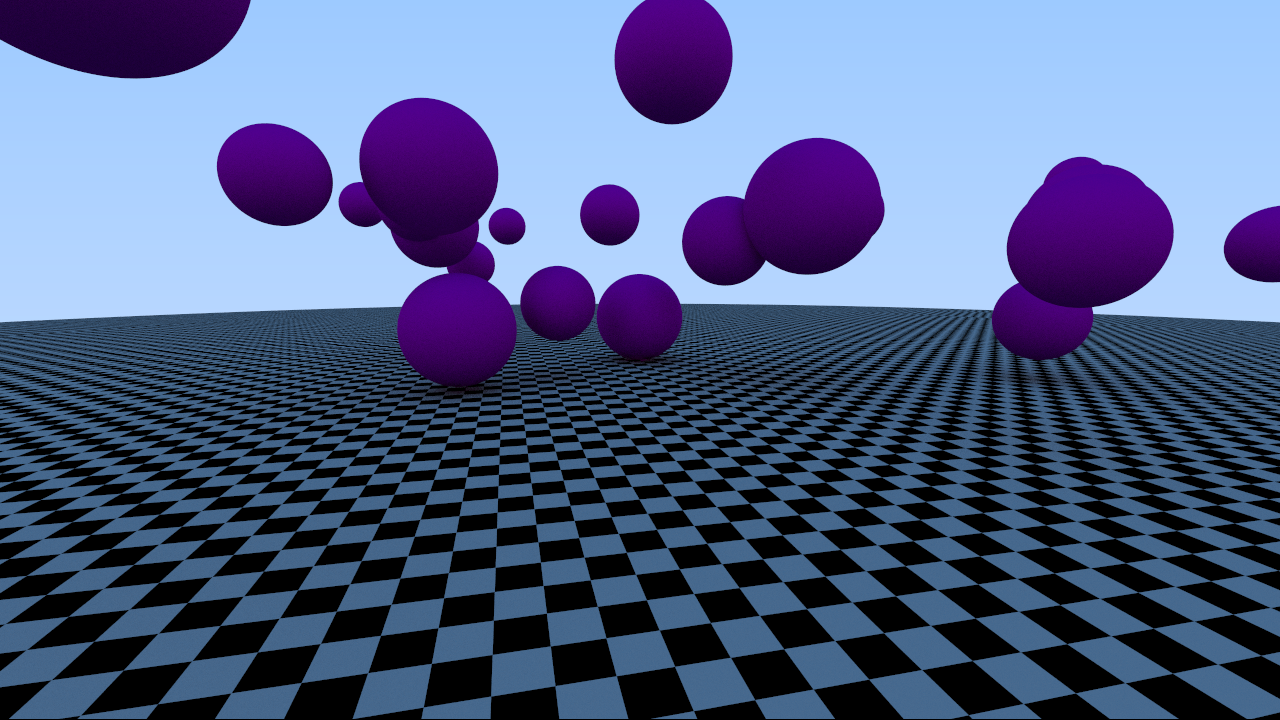
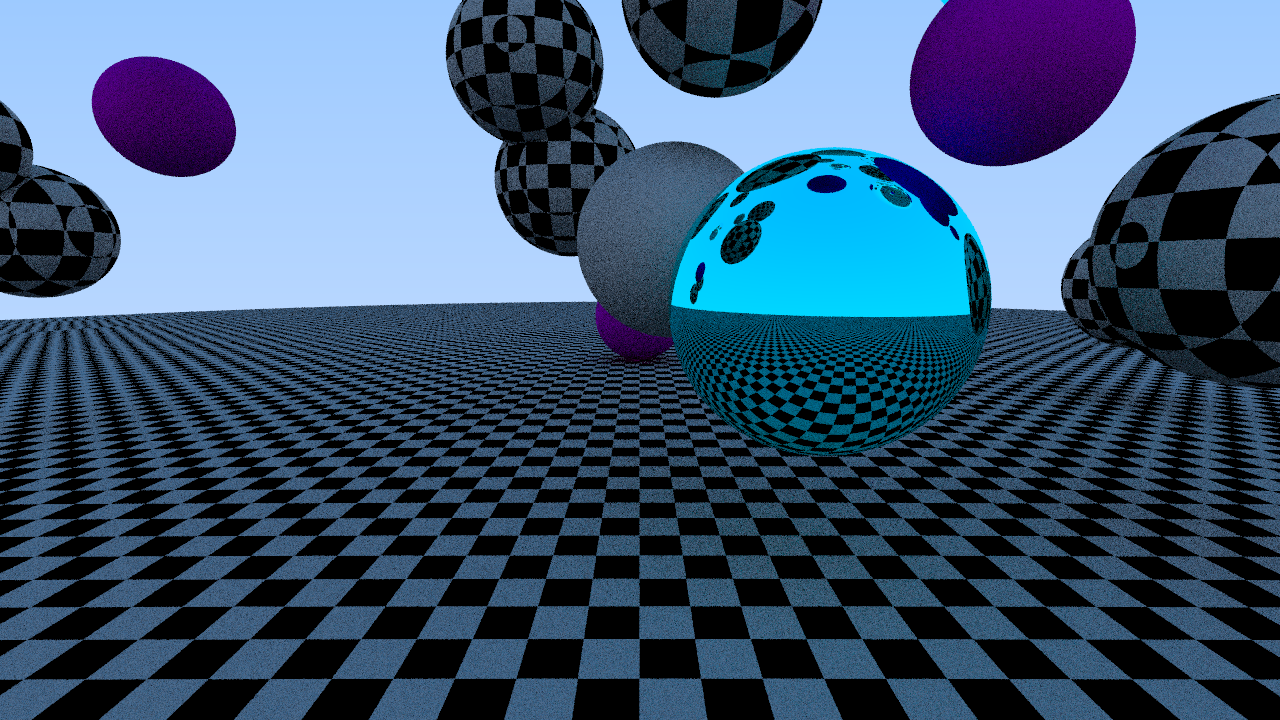
worky

diff --git a/src/main.rs b/src/main.rs
@@ -7,6 +7,9 @@ pub mod raytracer;
 pub mod scene;
 pub mod types;
 
+use std::sync::mpsc;
+use std::sync::mpsc::{Receiver, Sender};
+
 use crossbeam::thread;
 use hittable::*;
 use intersection::*;
@@ -21,7 +24,8 @@ use glm;
 use glm::builtin::*;
 
 use image; // 0.23.14
-use image::{Rgb, RgbImage};
+use image::imageops::*;
+use image::{GenericImage, GenericImageView, Rgb, RgbImage};
 
 fn degrees_to_radians(degrees: f32) -> f32 {
     degrees * std::f32::consts::PI / 180.
@@ -87,6 +91,28 @@ impl Material for DiffuseMaterial {
     }
 }
 
+pub struct MirrorMaterial {
+    albedo: Box<dyn Texture + Send + Sync>,
+}
+
+impl Material for MirrorMaterial {
+    fn brdf(&self, surface: &Intersection) -> Option<Bounce> {
+        Some(Bounce {
+            color: self.albedo.sample(&surface.uv, &surface.position),
+            out_dir: reflect(surface.in_direction, surface.normal),
+        })
+    }
+    fn pdf(&self, _: &Intersection) -> f32 {
+        1.
+    }
+}
+
+impl MirrorMaterial {
+    fn new(albedo: Box<dyn Texture + Send + Sync>) -> Self {
+        Self { albedo }
+    }
+}
+
 pub struct CameraSettings {
     origin: Position,
     left_corner: Position,
@@ -144,36 +170,63 @@ impl<Context> CPUTracer<Context> {
 
 impl<Context: Send + Sync> RayTracer<Context> for CPUTracer<Context> {
     fn trace(&self, context: &Context, width: u32, height: u32, scene: &Scene) {
-        for row in (0..height as i32 - 1).rev().step_by(8) {
-            if row < 0 {
+        let thread_count: u32 = 64;
+        let mut image = RgbImage::new(width, height);
+        let (tx, rx): (
+            Sender<Vec<(u32, u32, Color)>>,
+            Receiver<Vec<(u32, u32, Color)>>,
+        ) = mpsc::channel();
+
+        for row in (0..height).step_by(thread_count as usize) {
+            if row >= height {
                 break;
             }
+
+            let thread_tx = tx.clone();
+
+            //let slice = acc[(row * width) as usize..(row * width + width) as usize];
             let scope = thread::scope(move |s| {
-                for t in (0..8 as i32).rev() {
-                    if row - t < 0 {
+                for t in 0..thread_count {
+                    if row + t >= height {
                         break;
                     }
+                    let thread_tx = thread_tx.clone();
+
                     s.spawn(move |_| {
+                        let mut row_vector = Vec::with_capacity(width as usize);
                         for x in 0..width {
-                            let c = self.ray_generation_shader.generate(
+                            let color = self.ray_generation_shader.generate(
                                 self,
                                 context,
                                 scene,
                                 width,
                                 height,
                                 x,
-                                (row - t).max(0) as u32,
+                                row + t,
                             );
 
-                            let idx = (row - t) as u32 * width + x;
+                            row_vector.push((x, row + t, color));
                         }
-                        let progress = 1. - (row - t) as f32 / height as f32;
-                        println!("Progress: {} Row: {}", progress * 100., row - t);
+
+                        thread_tx.send(row_vector).unwrap();
+                        let progress = (row + t) as f32 / height as f32;
+                        println!("Progress: {} Row: {}", progress * 100., row + t);
                     });
                 }
             })
             .unwrap();
+
+            for row in rx.try_iter() {
+                for (x, y, color) in row {
+                    let r = (color.x.sqrt() * 255.) as u8;
+                    let g = (color.y.sqrt() * 255.) as u8;
+                    let b = (color.z.sqrt() * 255.) as u8;
+                    image.put_pixel(x, y, Rgb([r, g, b]))
+                }
+            }
         }
+
+        image.save("output.png");
     }
 
     fn intersect(&self, _: &Context, scene: &Scene, ray: &Ray) -> Option<Intersection> {
@@ -225,9 +278,6 @@ impl RayGenerationShader<MyContext> for RayGenerator {
 
         color = color / context.spp as f32;
         color
-        // let r = (sqrt(color.x) * 255.) as u8;
-        // let g = (sqrt(color.y) * 255.) as u8;
-        // let b = (sqrt(color.z) * 255.) as u8;
 
         //context.output_image.put_pixel(x, y, Rgb([r, g, b]));
     }
@@ -244,7 +294,7 @@ fn main() {
     let height = 720;
     let mut scene = Scene::new();
     let camera = CameraSettings::new(
-        &Position::new(13., 2., 3.),
+        &Position::new(0., 2., 13.),
         &Direction::new(0., 0., 0.),
         16. / 9.,
         65.,
@@ -266,6 +316,14 @@ fn main() {
         SolidColorTexture::new(&Color::new(1., 0., 1.)),
     ))));
 
+    ctx.materials.push(Box::new(DiffuseMaterial::new(Box::new(
+        SolidColorTexture::new(&Color::new(1., 1., 1.)),
+    ))));
+
+    ctx.materials.push(Box::new(MirrorMaterial::new(Box::new(
+        SolidColorTexture::new(&Color::new(0., 1., 1.)),
+    ))));
+
     // Floor
     scene.add_hittable(Box::new(Sphere::new(
         1000.,
@@ -273,20 +331,19 @@ fn main() {
         0,
     )));
 
-    for _ in 0..20 {
+    for _ in 0..30 {
         scene.add_hittable(Box::new(Sphere::new(
             rand_range(0.5, 1.25),
             &Position::new(
                 rand_range(-10., 10.),
-                rand_range(1., 5.),
-                rand_range(-10., 10.),
+                rand_range(1., 10.),
+                rand_range(2., 10.),
             ),
-            1,
+            rand_range(0., 4.) as u32,
         )));
     }
     scene.add_hittable(Box::new(Sphere::new(1., &Position::new(0., 1., 0.), 1)));
     let tracer = CPUTracer::new(Box::new(RayGenerator { camera: camera }));
 
     tracer.trace(&ctx, width, height, &scene);
-    //ctx.output_image.save("output.png");
 }
